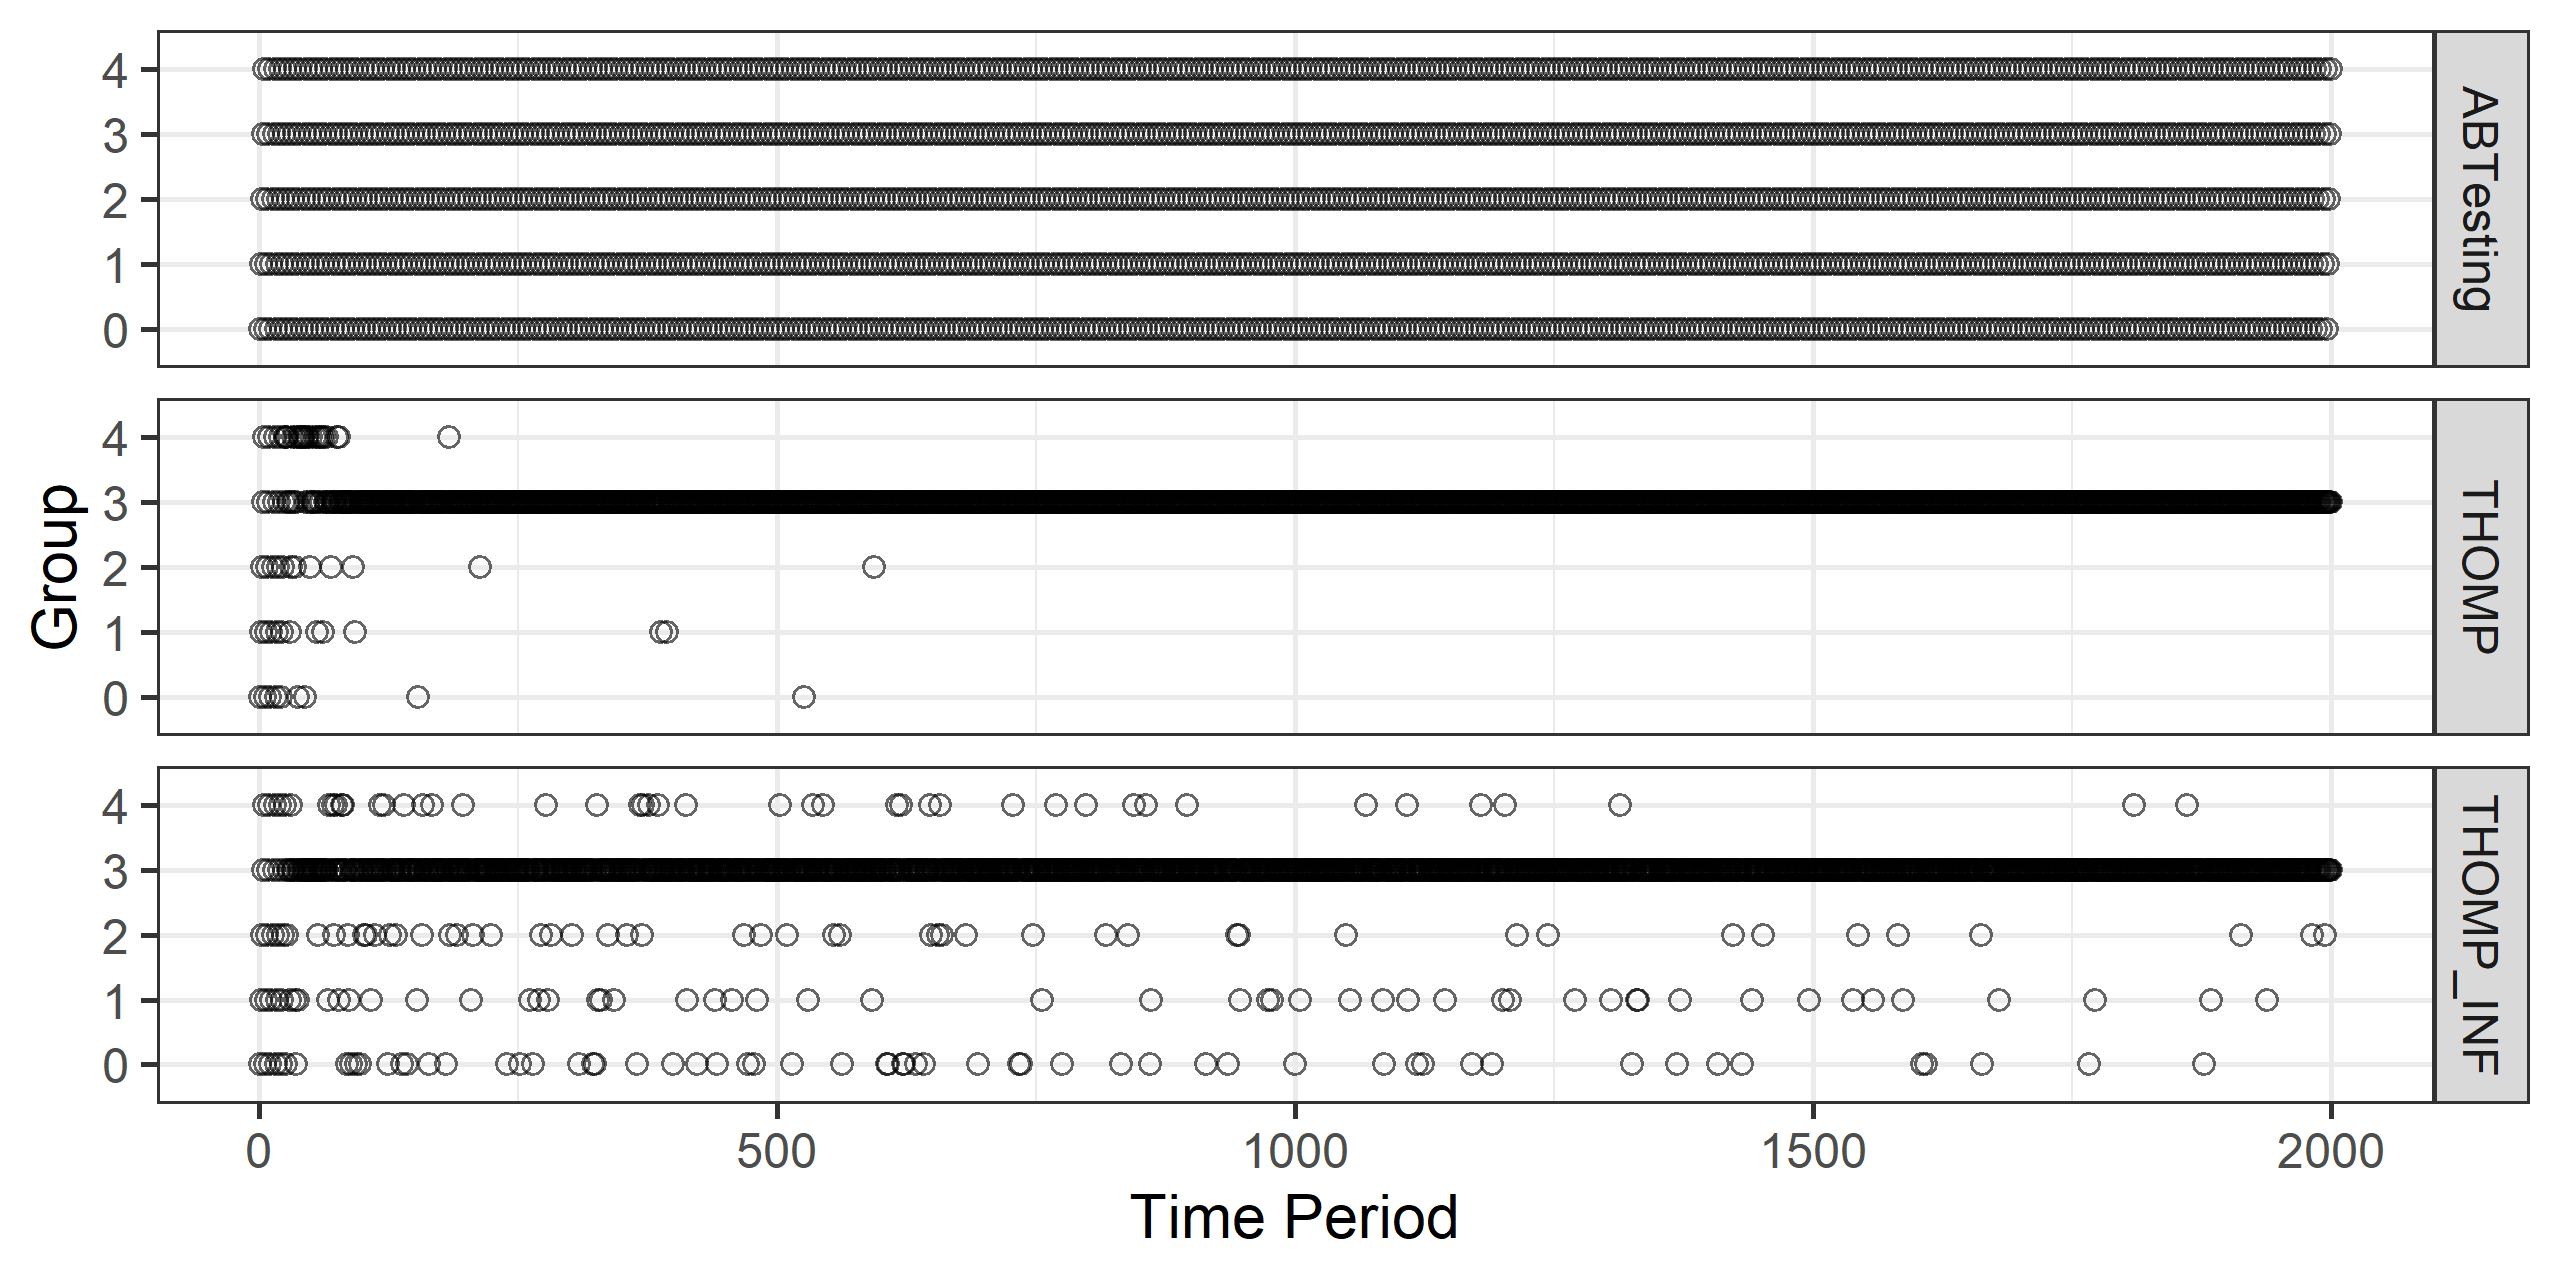
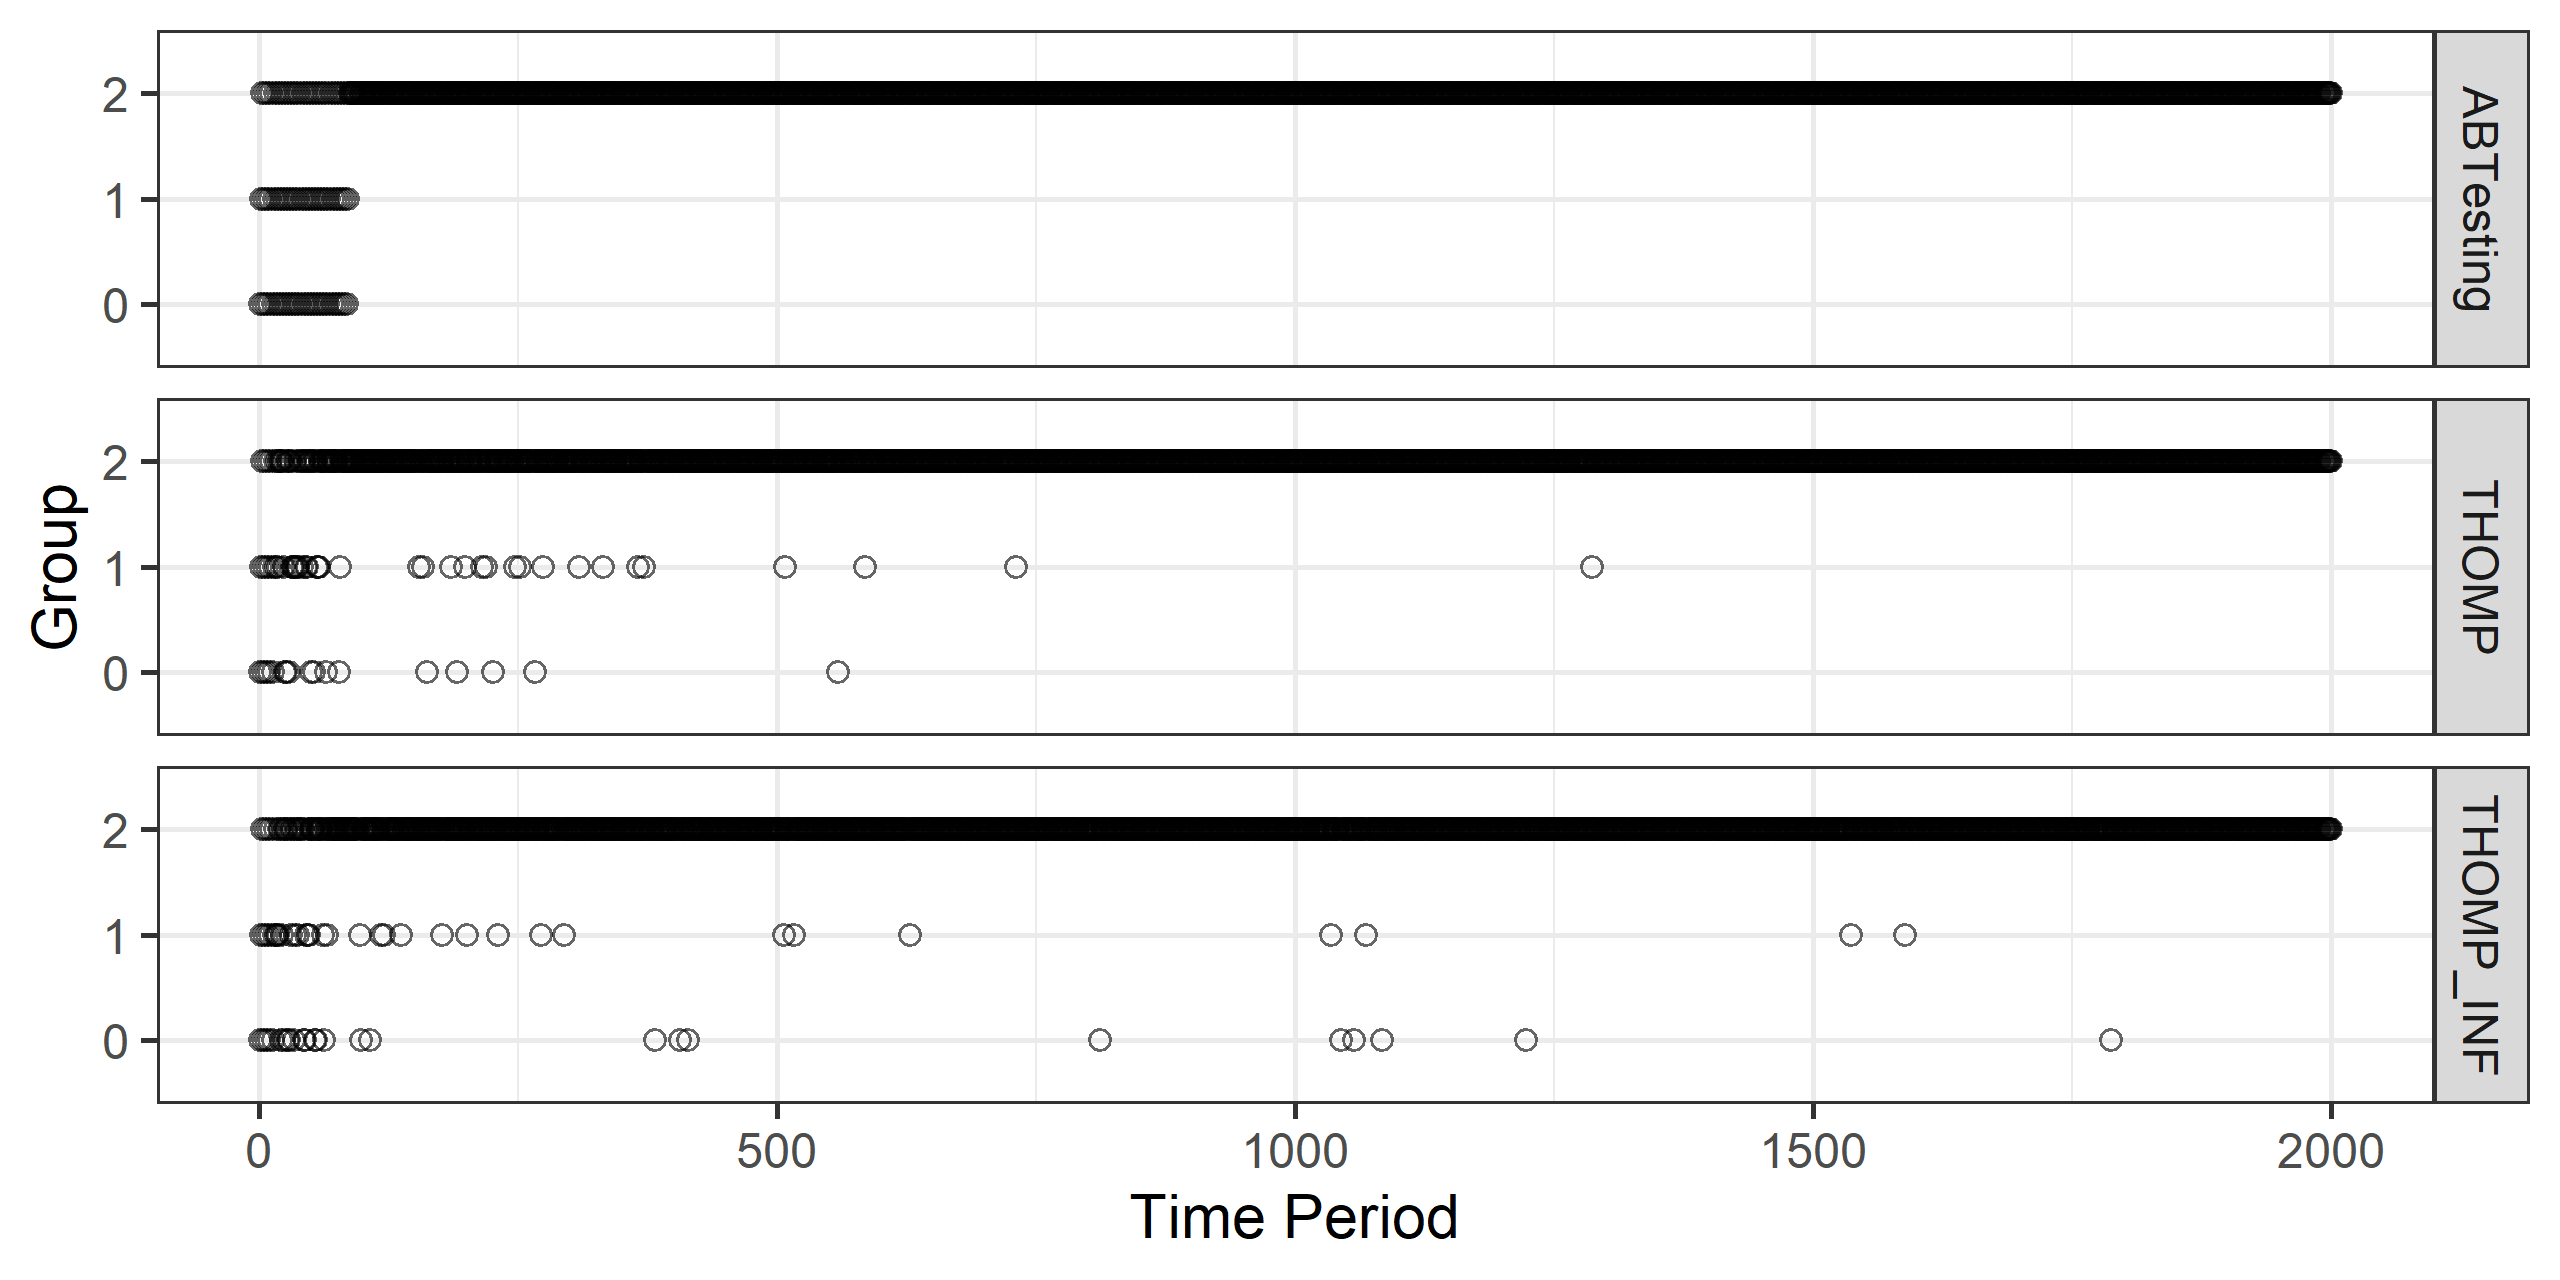
changing LSN and HSN and adding ZSN

diff --git a/run_sim.py b/run_sim.py
@@ -33,6 +33,7 @@ if __name__ == '__main__':
     xi_analysis = False
     hsn = True
     lsn = True
+    zsn = True
     if meta_analysis:
         num_meta_ite = 100
         ref_lis = []
@@ -47,14 +48,18 @@ if __name__ == '__main__':
         true_means = [0.25, 1.82, 1.48, 2.25, 2]
         true_vars = [2.84, 1.97, 2.62, 1, 2.06]
         a = run_sim('analysis/output/agg_analysis_default_100_20000.csv', true_means, true_vars=true_vars, dist_type='Normal')
-    if hsn:
+    if lsn:
         true_means = [1, 1.1, 1.2]
         true_vars = [1/3, 1/3, 1/3]
-        run_sim('analysis/output/non_agg_hsn_100_2000.csv', true_means, true_vars=true_vars, dist_type='HSN')
-    if lsn:
+        run_sim('analysis/output/non_agg_hsn_100_20000.csv', true_means, true_vars=true_vars, dist_type='HSN')
+    if hsn:
         true_means = [1, 1.5, 2]
         true_vars = [1/3, 1/3, 1/3]
-        run_sim('analysis/output/non_agg_lsn_100_2000.csv', true_means, true_vars=true_vars, dist_type='LSN')
+        run_sim('analysis/output/non_agg_lsn_100_20000.csv', true_means, true_vars=true_vars, dist_type='LSN')
+    if zsn:
+        true_means = [1, 1, 1]
+        true_vars = [1/3, 1/3, 1/3]
+        run_sim('analysis/output/non_agg_zsn_100_20000.csv', true_means, true_vars=true_vars, dist_type='ZSN')
     if regret_order:
         true_means = [0.25, 1.82, 1.48, 2.25, 2]
         true_vars = [2.84, 1.97, 2.62, 1, 2.06]

diff --git a/bandit.py b/bandit.py
@@ -44,7 +44,7 @@ class Bandit:
         if self.dist_type == "Normal":
             # Generate reward from that arm
             reward = np.random.normal(self.arm_means[arm_num], sqrt(self.arm_vars[arm_num]))
-        if self.dist_type == "HSN" or self.dist_type == "LSN":
+        if self.dist_type == "HSN" or self.dist_type == "LSN" or self.dist_type == "ZSN":
             reward = self.arm_means[arm_num]+ np.random.uniform(-1, 1)
         # Do all updates after the arm is pulled
 
